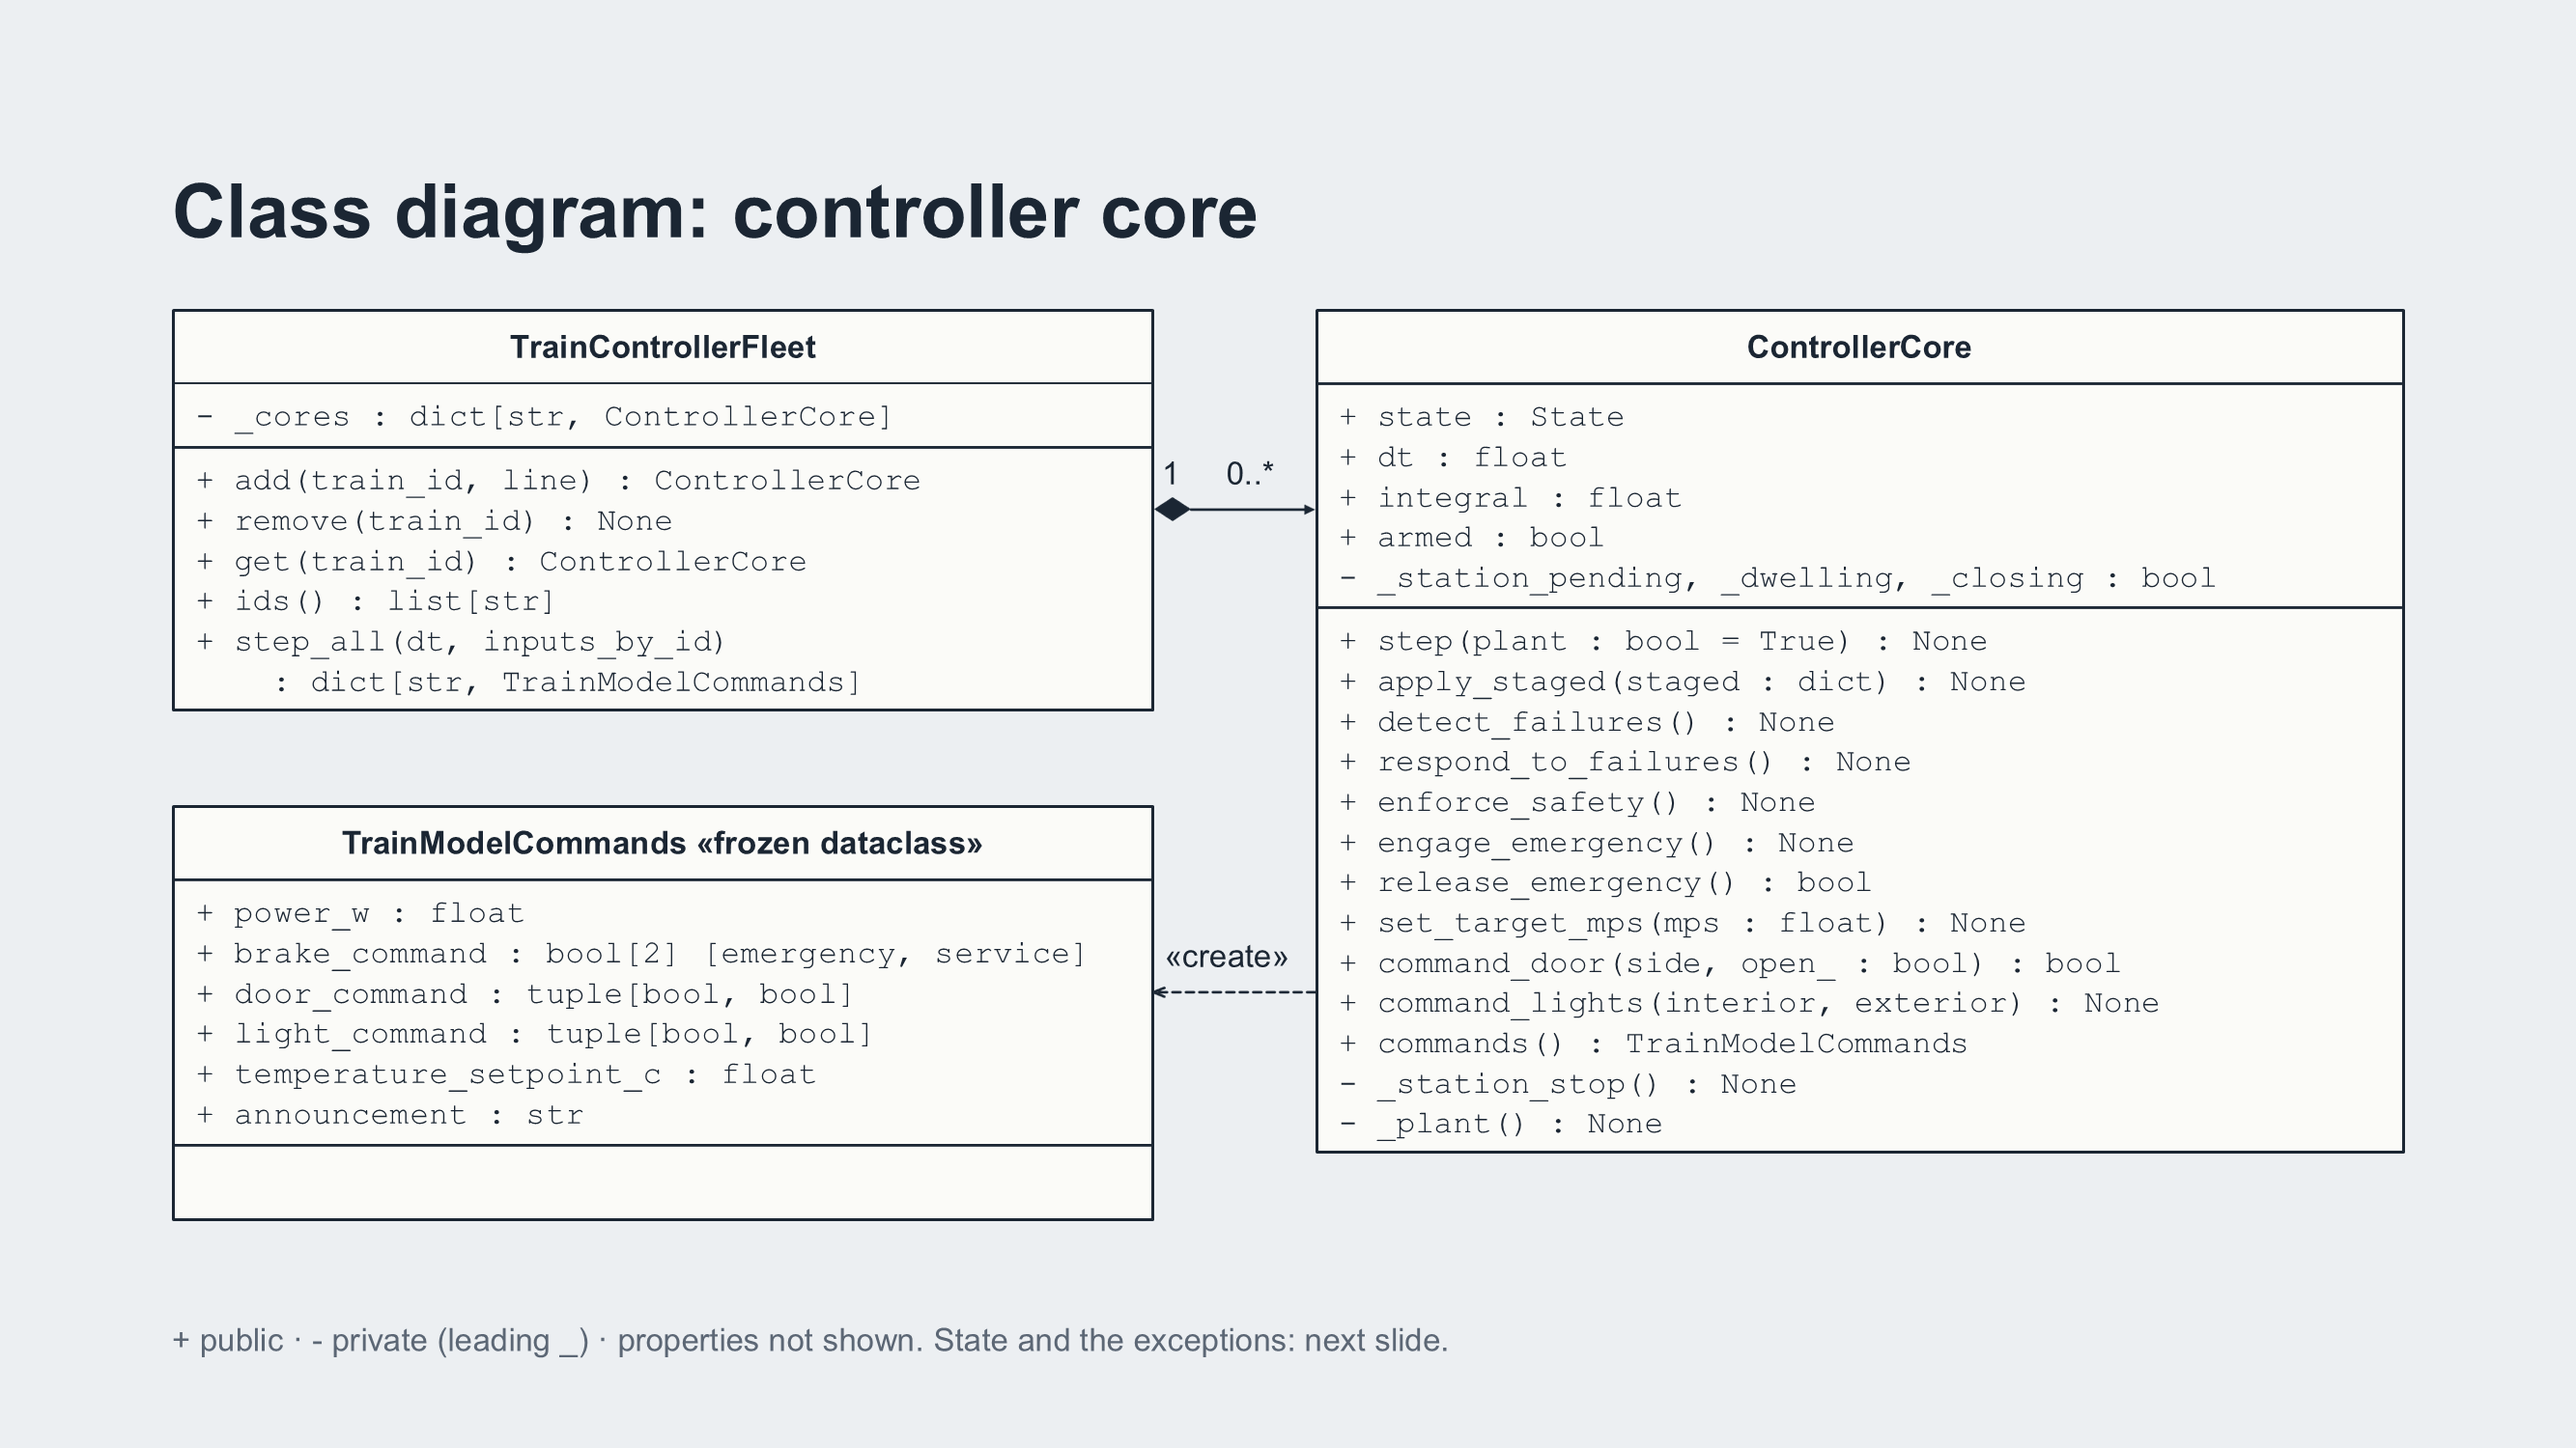
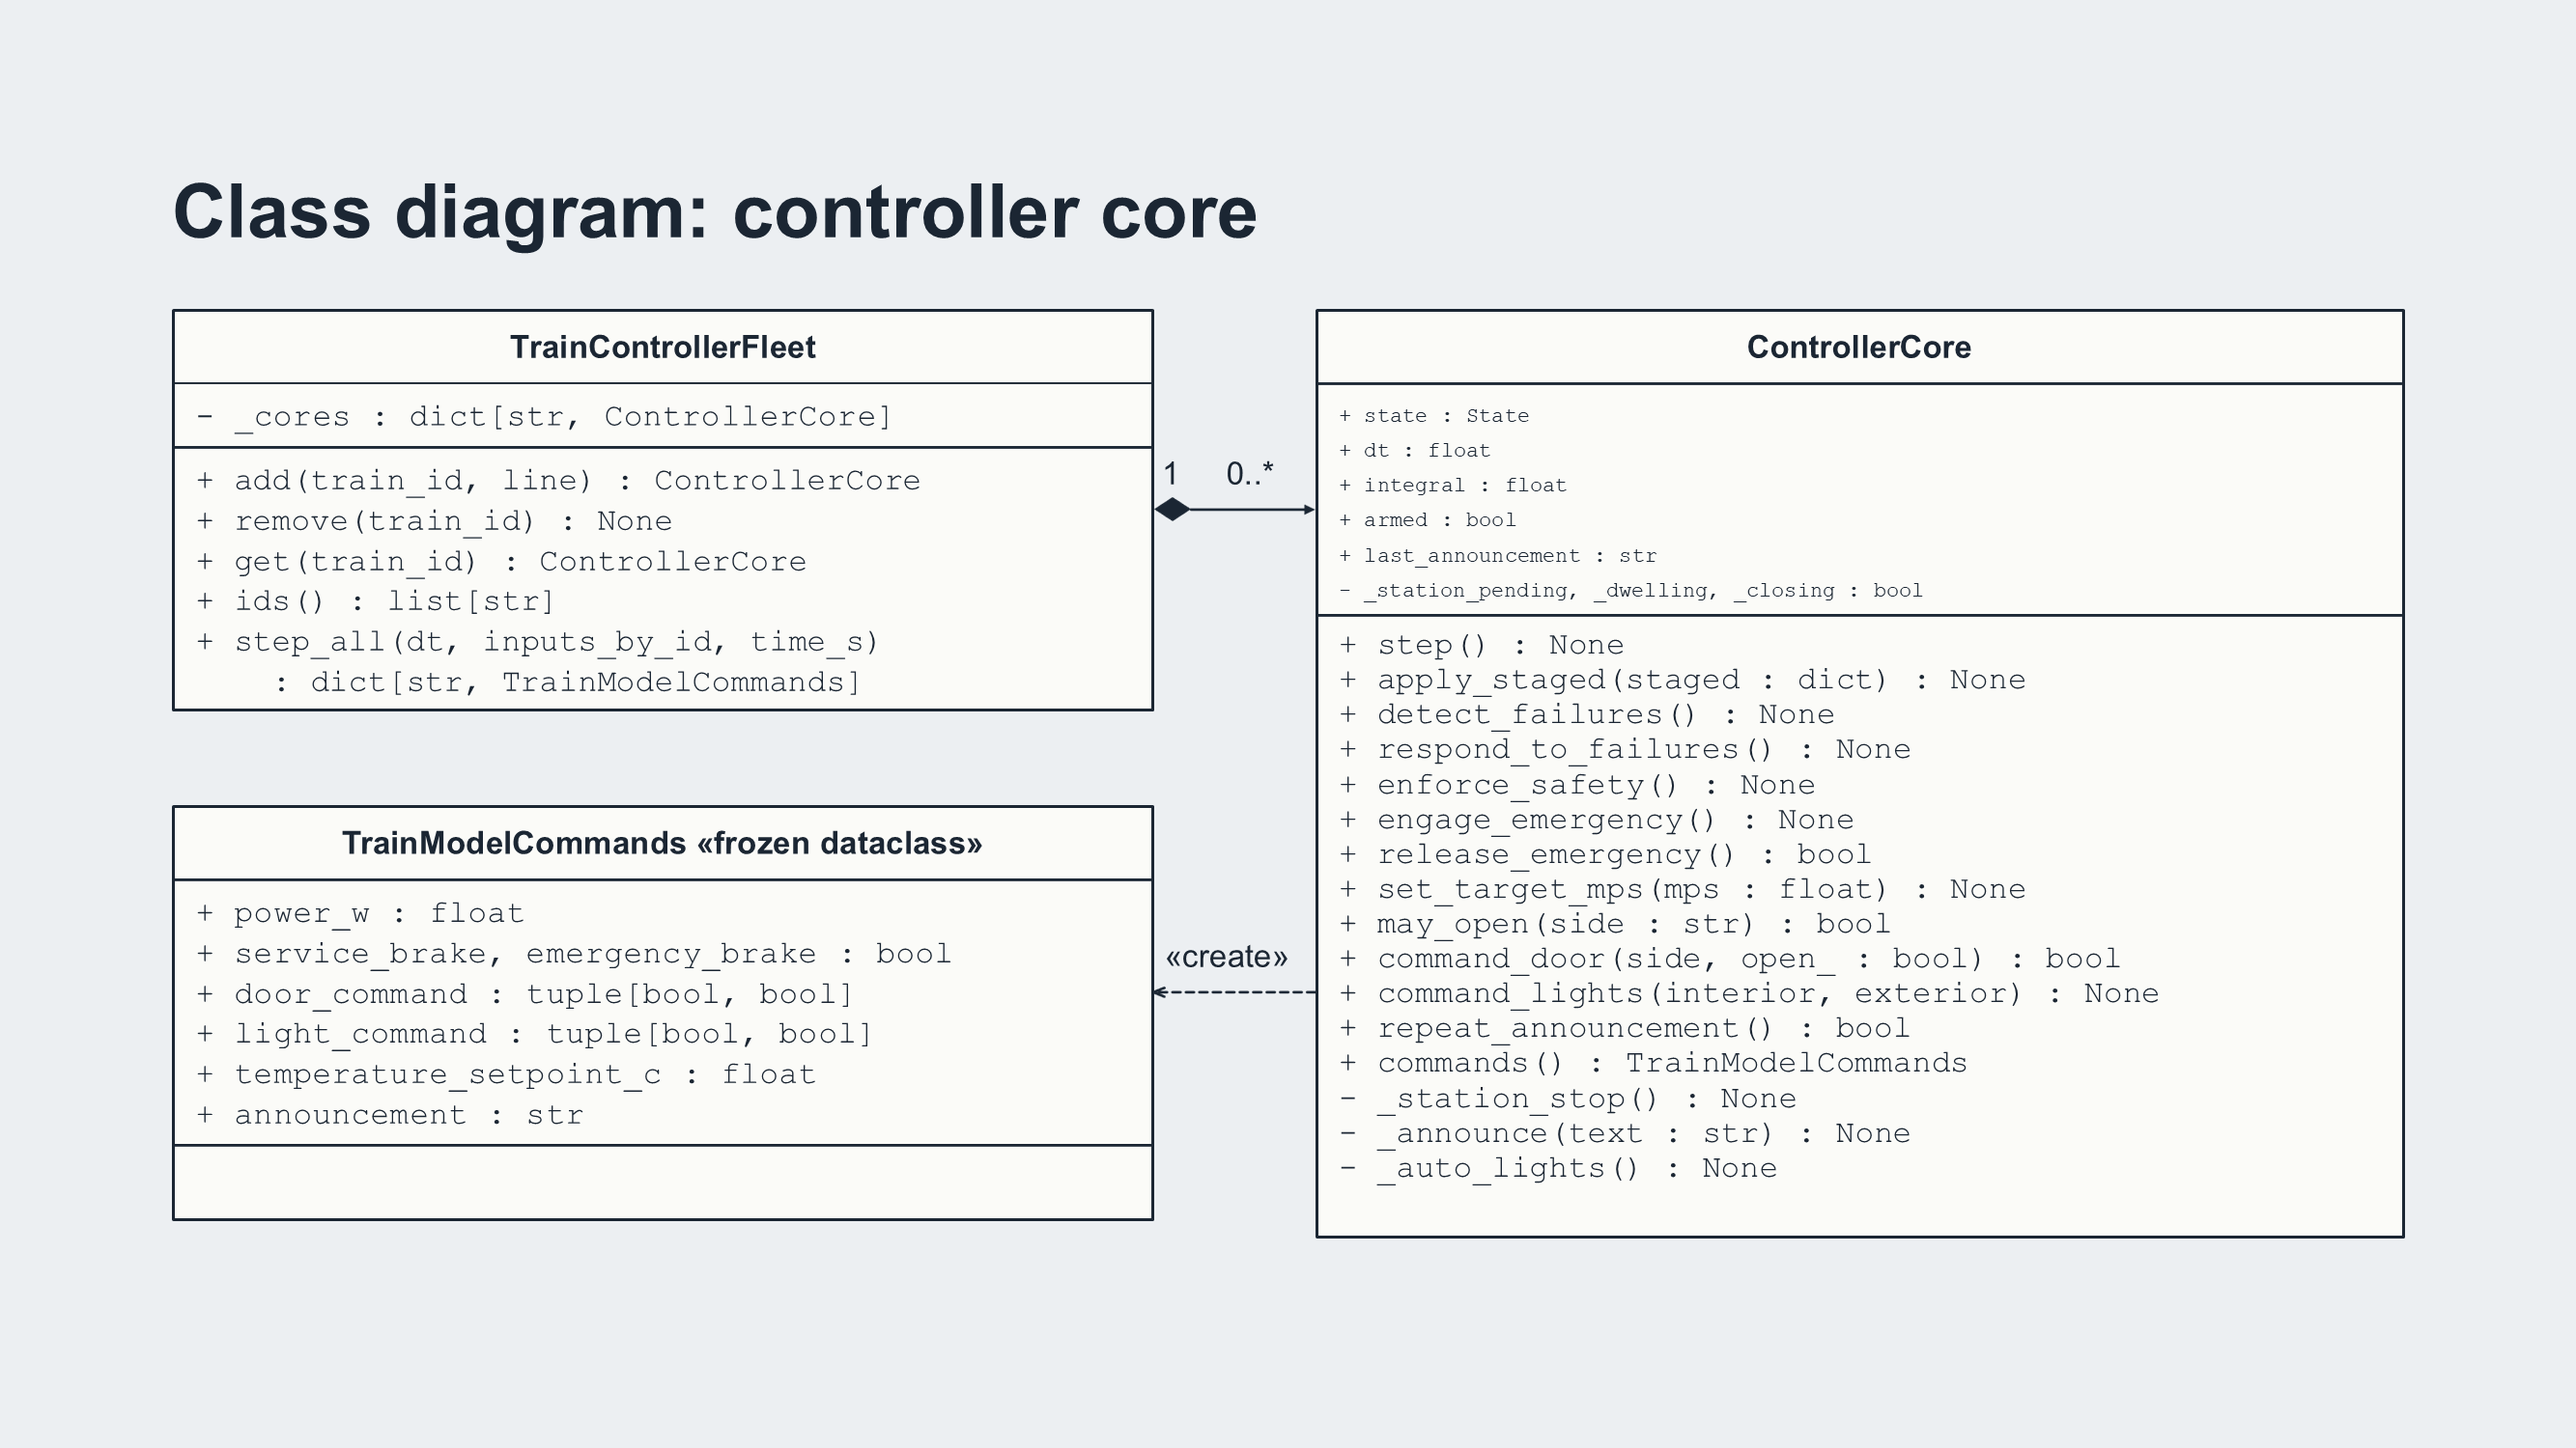
documents: SDD class diagrams to cfba866; brake commands as two bools
Deck slides 5-7 replaced with the updated class diagrams (step()
without plant, may_open, repeat_announcement, _announce, _auto_lights,
step_all with time_s; bench and test members left off) and the
figures re-exported.

The SDD follows: TrainModelCommands keeps service_brake and
emergency_brake as two bools, as the code does, so 004 lists them
separately again and the bool[2] note is gone. The ConsoleBackend
card drops the bench attributes and lists idle and notes.

diff --git a/documents/Railway_Sim_SDD_Train_Controller.md b/documents/Railway_Sim_SDD_Train_Controller.md
@@ -413,9 +413,8 @@ Physical, Structure, Dependency, Information, Algorithm, State Dynamics, Concurr
   | fleet            | The fleet shown: its own, or the harness's  |
   | selected         | The selected train                          |
   | operator         | Driver, engineer or nobody                  |
-  | sim_rate, paused | 1× or 10×, and Pause, for a fleet it owns |
-  | sims             | The bench's `SimTrain` per train          |
-  | time_s           | The clock shown                             |
+  | idle             | An unstepped controller, so the views have a shape to read while no train is in service |
+  | notes            | A message per train, shown on the console   |
 
   | Responsibility                                                                          | Collaborator                   |
   | --------------------------------------------------------------------------------------- | ------------------------------ |
@@ -471,7 +470,8 @@ Physical, Structure, Dependency, Information, Algorithm, State Dynamics, Concurr
   | Train Model      | Train Controller | Beacon                        | Station name, platform side, underground       |
   | Track Model      | Train Controller | Signal aspect ahead           | Red, Yellow, Green, Super Green                |
   | Train Controller | Train Model      | Power command                 | Power, W                                       |
-  | Train Controller | Train Model      | Brake command                 | Emergency, service                             |
+  | Train Controller | Train Model      | Service brake command         | On, off                                        |
+  | Train Controller | Train Model      | Emergency brake command       | On, off                                        |
   | Train Controller | Train Model      | Door command                  | Left, right                                    |
   | Train Controller | Train Model      | Light command                 | Interior, exterior                             |
   | Train Controller | Train Model      | Temperature setpoint          | °C                                            |
@@ -517,14 +517,12 @@ Physical, Structure, Dependency, Information, Algorithm, State Dynamics, Concurr
   | Field                      | Unit / shape                  | Truth signal                                           | Harness maps to (`ControllerCommands`) |
   | -------------------------- | ----------------------------- | ------------------------------------------------------ | ---------------------------------------- |
   | `power_w`                | W, 0–480,000                 | `power-command`                                      | `power_cmd_w`                          |
-  | `brake_command`          | `[emergency, service]` bool | `emergency-brake-command`, `service-brake-command` | `emergency_brake`, `service_brake`   |
+  | `service_brake`          | bool                     | `service-brake-command`   | `service_brake`                        |
+  | `emergency_brake`        | bool                     | `emergency-brake-command` | `emergency_brake`                      |
   | `door_command`           | `(left, right)`             | `door-command`                                       | `door_left_open`, `door_right_open`  |
   | `light_command`          | `(interior, exterior)`      | `light-command`                                      | `interior_lights`, `exterior_lights` |
   | `temperature_setpoint_c` | °C                           | `temperature-setpoint`                               | `temp_setpoint_c`                      |
   | `announcement`           | str, empty when none          | `announcement`                                       | `announcement`                         |
-
-  Code today sends two bools (`service_brake`, `emergency_brake`); to
-  change to `brake_command`.
 
   **Errors** (all derive from `TrainControllerError`; a failed
   `step_all` changes no train):
